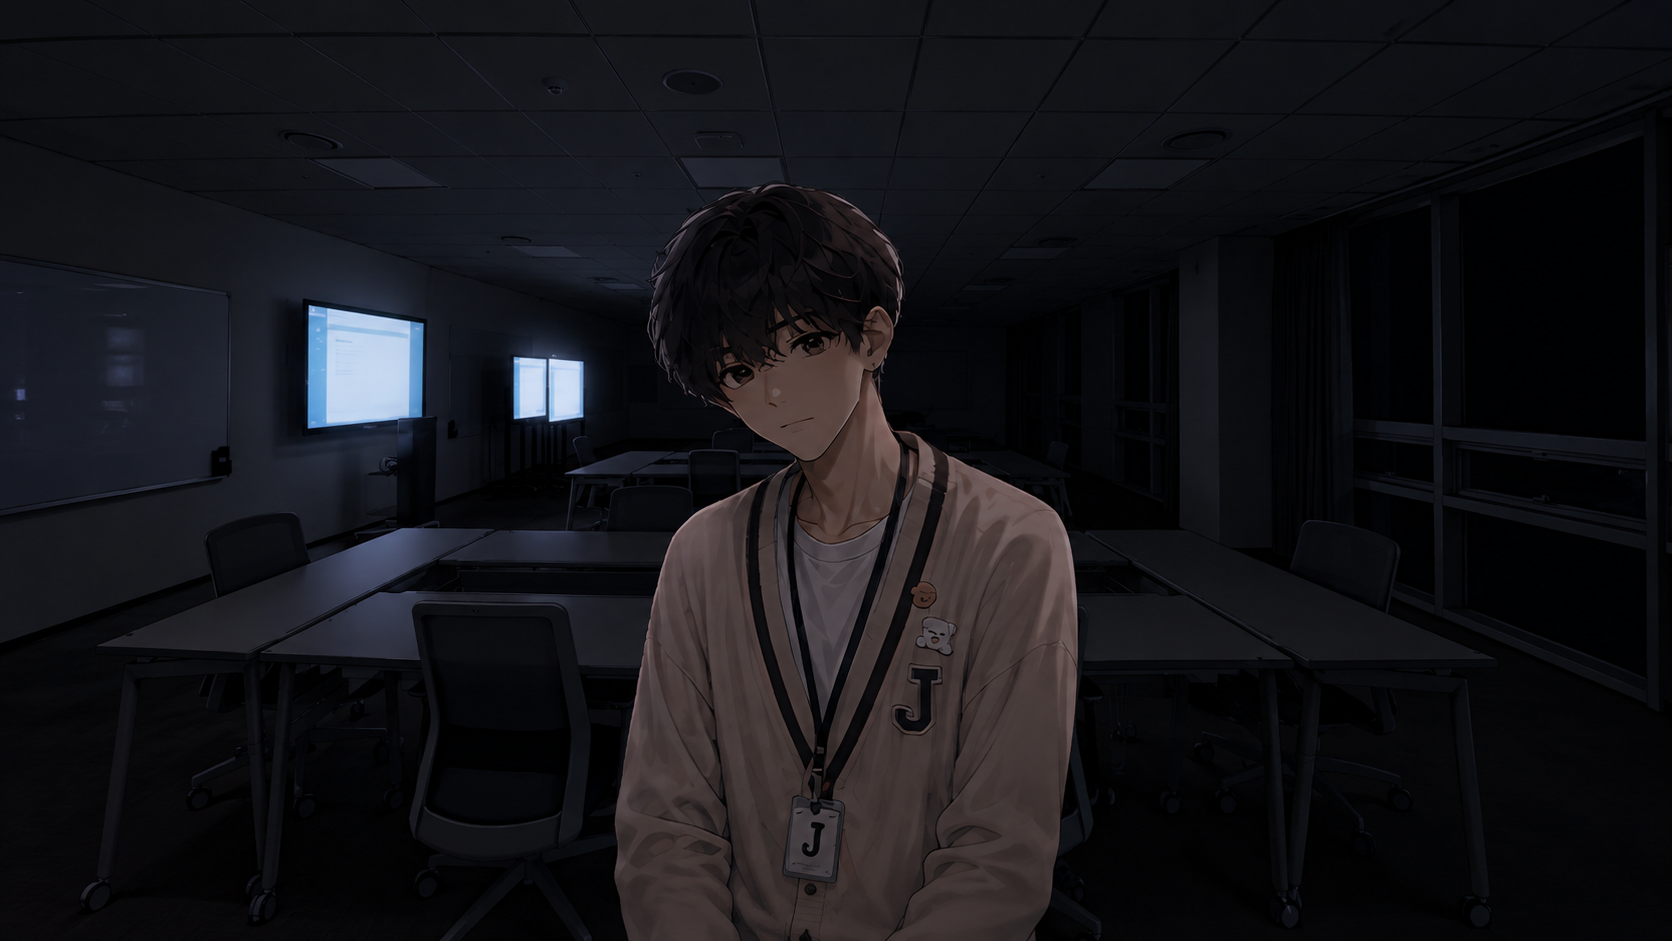
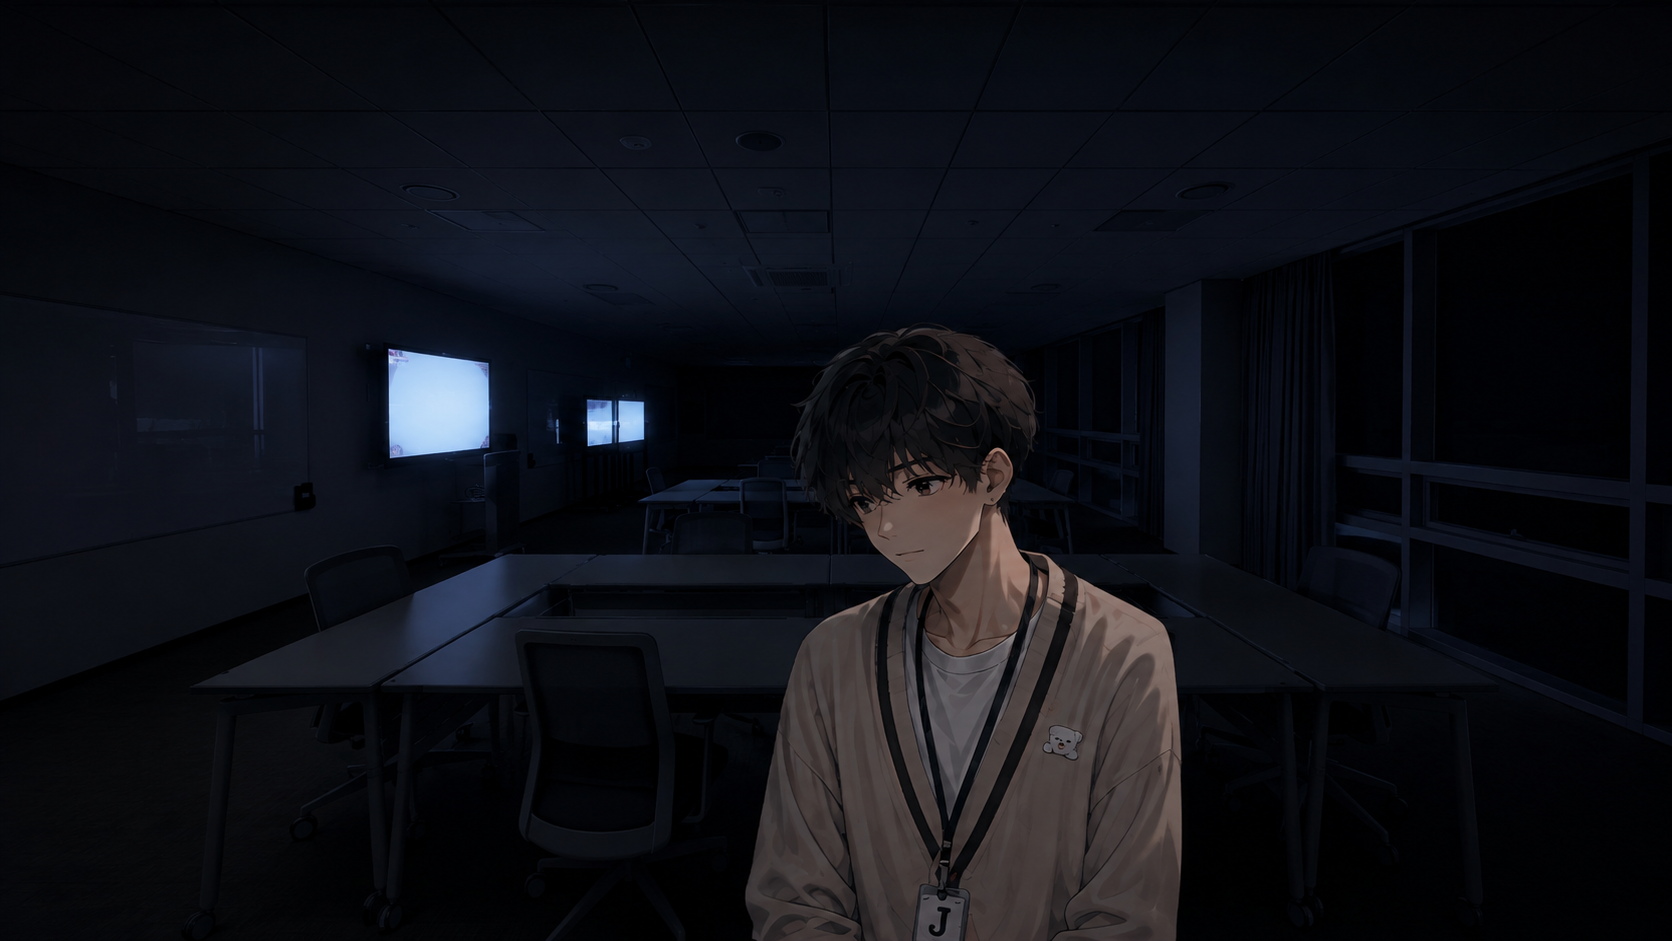
fix: 6조에 없는 사람이 말하고 있었다
윤정 클라이맥스에 "조원 한 명" 이라고 썼는데 6조에는 그 말을 할
사람이 없다.

  6조 = 주인공 + 히로인 3
  남주 플레이면 주인공(남) + 민아 + 승희 + 윤정 이다.
  주인공은 1인칭이라 얼굴이 화면에 안 나오고, 할 일이 SCENARIO_OUTLINE
  에 "나이를 빼고 칭찬한다" 로 적혀 있다. 그 말을 할 사람이 아니다.
  민아와 승희는 같은 조 친구다.

말하는 쪽은 4조다. 4학년이 2학년에게 하는 말이라 강태윤·강태연의
자리이고, 그 둘은 흰 셔츠에 남색 니트 조끼다. 결과 이미지의 뒷모습은
검은 상의라 강태윤도 아니었다.

승희 쪽도 인원이 틀렸다
  "조가 자기를 빼놓고 결정" 의 조에서 승희와 주인공(목격자, 카메라
  자리)을 빼면 민아와 윤정 둘뿐인데 서넛이라고 썼다.
  얼굴은 그리지 않되 실루엣 갈고리는 준다 — 노란 오버사이즈 후드와
  높게 묶은 검은 머리. 어둠 속 뒷모습이어도 누군지 읽힌다.
  모르는 사람들이 결정한 게 아니라 아는 둘이 빼놓은 것이어야 아프다.

두 컷 다 "뒷모습이라 얼굴은 화면에 없음" 을 박았다. 도트로만 존재하는
조연의 얼굴을 스틸에서 정해버리면 안 되고, 주인공은 1인칭이다.

T12 통과. 뱃지가 하나로 줄고 시선이 옆 아래로 빠졌다.

diff --git a/tools/gen_prompts.py b/tools/gen_prompts.py
@@ -106,11 +106,18 @@ HEROINES = [
         garden_face="부끄러움", climax_face="슬픔", ending_face="기쁨",
         # 조원을 긍정에 적어야 그려진다. 부정에서 "여러 명, 군중" 을 뺀 건
         # 안 막았을 뿐이지 넣으라는 뜻이 아니다. 빈 강의실에 혼자 나왔다.
-        # 조원은 등을 보이게 한다 — 얼굴이 나오면 시선이 분산되고, 도트로만
-        # 존재하는 조연들의 얼굴을 여기서 정해버리게 된다.
+        #
+        # 6조는 주인공 + 히로인 3 이다. 승희를 빼면 민아와 윤정 둘뿐이고,
+        # 주인공은 목격자라 무리에 없다 (카메라 자리이고 1인칭이라 얼굴이
+        # 화면에 안 나온다). 그래서 정확히 두 명이다.
+        # 얼굴은 그리지 않되 실루엣 갈고리는 준다 — 노란 후드와 높게 묶은
+        # 머리면 어둠 속에서도 누군지 읽힌다. 모르는 사람들이 결정한 게
+        # 아니라 아는 둘이 빼놓은 것이어야 아프다.
         climax=block("""
-            뒤쪽 책상에 조원 서넛이 모여 무언가를 정하고 있음,
-            그 무리에서 두세 걸음 떨어져 혼자 서 있음, 아무도 이쪽을 보지 않음,
+            뒤쪽 책상에 조원 두 명이 모여 무언가를 정하고 있음,
+            한 명은 노란 오버사이즈 후드, 한 명은 검은 머리를 높게 묶음,
+            둘 다 뒷모습이라 얼굴은 화면에 없음, 아무도 이쪽을 보지 않음,
+            그 무리에서 두세 걸음 떨어져 혼자 서 있음,
             소매로 손을 감싼 채 말을 꺼내지 못하고 시선을 내림
         """),
         ending_age=28, ending_bg="gallery",
@@ -144,9 +151,15 @@ HEROINES = [
         garden_face="슬픔", climax_face="놀람", ending_face="기쁨",
         # 놀람 칸만 물리면 "깜짝이야" 가 나온다. 이건 모욕을 들은 순간이라
         # 놀람과 상처가 섞이고 그 다음에 말문이 막혀야 한다.
+        #
+        # 말하는 쪽은 6조가 아니라 4조다. 6조는 주인공(1인칭이라 화면에 안
+        # 나오고, 할 일이 "나이를 빼고 칭찬한다" 다)과 민아·승희뿐이라 그
+        # 말을 할 사람이 없다. 4학년이 2학년에게 하는 말이라 강태윤·강태연의
+        # 자리이고, 그 둘은 흰 셔츠에 남색 니트 조끼다.
         climax=block("""
             헤드폰은 목에 걸려 있음,
-            바로 앞에 조원 한 명이 등을 보이고 서 있음,
+            바로 앞에 4조(경쟁 조) 사람 한 명이 등을 보이고 서 있음,
+            흰 셔츠 위에 남색 니트 조끼, 뒷모습만 보이고 얼굴은 화면에 없음,
             방금 들은 말에 눈이 커지고 입이 반쯤 벌어진 채 굳음,
             놀라움이 아니라 상처받은 얼굴, 하려던 말이 끊긴 채 소리가 안 나옴
         """),

diff --git a/docs/reference/character/prompts/04_still/T08_seunghee_climax.md b/docs/reference/character/prompts/04_still/T08_seunghee_climax.md
@@ -50,8 +50,10 @@
 소매로 손을 덮은 베이지 니트,
 목에 검은 랜야드 — 줄이 가슴에 보이고 작은 흰 명찰이 명치에 놓임.
 
-뒤쪽 책상에 조원 서넛이 모여 무언가를 정하고 있음,
-그 무리에서 두세 걸음 떨어져 혼자 서 있음, 아무도 이쪽을 보지 않음,
+뒤쪽 책상에 조원 두 명이 모여 무언가를 정하고 있음,
+한 명은 노란 오버사이즈 후드, 한 명은 검은 머리를 높게 묶음,
+둘 다 뒷모습이라 얼굴은 화면에 없음, 아무도 이쪽을 보지 않음,
+그 무리에서 두세 걸음 떨어져 혼자 서 있음,
 소매로 손을 감싼 채 말을 꺼내지 못하고 시선을 내림.
 
 한국 웹툰 일러스트 화풍, 세미리얼 애니메이션풍, 부드러운 셀 셰이딩,

diff --git a/docs/reference/character/prompts/04_still/T09_yunjung_climax.md b/docs/reference/character/prompts/04_still/T09_yunjung_climax.md
@@ -51,7 +51,8 @@
 목에 검은 랜야드 — 줄이 가슴에 보이고 작은 흰 명찰이 명치에 놓임.
 
 헤드폰은 목에 걸려 있음,
-바로 앞에 조원 한 명이 등을 보이고 서 있음,
+바로 앞에 4조(경쟁 조) 사람 한 명이 등을 보이고 서 있음,
+흰 셔츠 위에 남색 니트 조끼, 뒷모습만 보이고 얼굴은 화면에 없음,
 방금 들은 말에 눈이 커지고 입이 반쯤 벌어진 채 굳음,
 놀라움이 아니라 상처받은 얼굴, 하려던 말이 끊긴 채 소리가 안 나옴.
 
